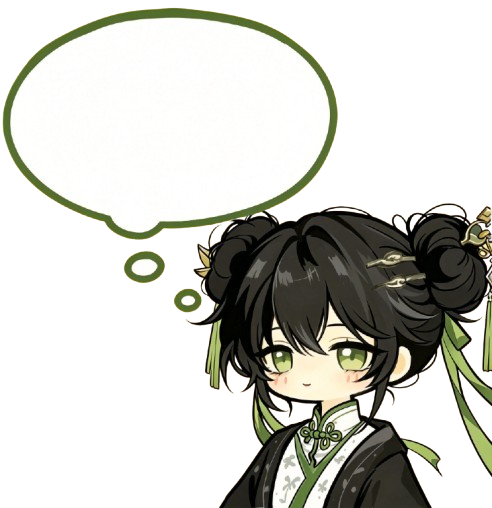
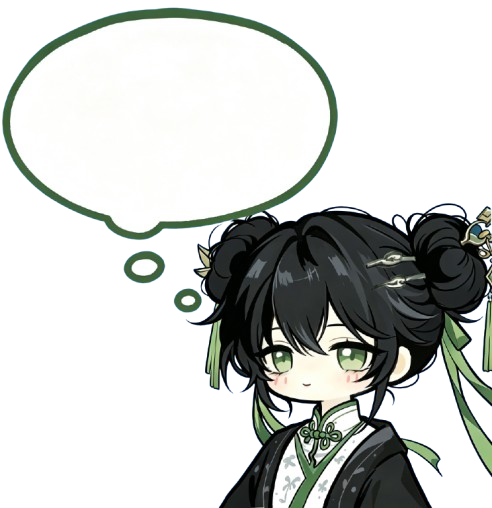
蔡可

diff --git a/public/world/游戏系统/difu/模拟器/蔡可.html b/public/world/游戏系统/difu/模拟器/蔡可.html
@@ -96,7 +96,7 @@ body{font-family:var(--font-serif);background:var(--bg-body);color:var(--text-pr
 #desk-pet{position:fixed;bottom:-2px;right:0;z-index:9999;width:260px;cursor:grab;user-select:none;-webkit-user-select:none;-webkit-touch-callout:none;transform-origin:bottom center;-webkit-tap-highlight-color:transparent;touch-action:none;transition:filter 0.3s ease;will-change:transform;--drag-x:0px;--drag-y:0px;transform:translate3d(var(--drag-x),var(--drag-y),0);}
 [data-theme="dark"] #desk-pet{filter:brightness(0.88);}
 #desk-pet .char-img{width:100%;display:block;pointer-events:none;transition:filter 0.25s ease;}
-#desk-pet .bubble-text-wrap{position:absolute;left:8%;top:15%;width:64%;height:26%;display:flex;align-items:center;justify-content:center;text-align:center;z-index:2;pointer-events:none;}
+#desk-pet .bubble-text-wrap{position:absolute;left:4%;top:11%;width:64%;height:26%;display:flex;align-items:center;justify-content:center;text-align:center;z-index:2;pointer-events:none;}
 #desk-pet .bubble-text{font-family:var(--font-serif);font-size:0.92rem;font-weight:600;color:#1a1a1a;line-height:1.4;letter-spacing:0.5px;word-break:break-word;}
 #desk-pet.dragging{cursor:grabbing;transform:translate3d(var(--drag-x),var(--drag-y),0) scale(1.04);}
 #desk-pet.dragging .char-img{filter:drop-shadow(0 14px 16px rgba(0,0,0,0.30));}
@@ -229,7 +229,7 @@ if (themeBtn) {
 
 // 桌边小像
 (function(){
-  var lines = ["药好像煎糊了。","……","今天来医馆的人不多。","你说我的手怎么样了？不用担心。","铁匠铺给我装了法器义肢，用起来其实很灵活。","还是能拉开弓的。","……想看我射箭的样子？","当然可以。","那等你课程结束，我们演武场见吧？"];
+  var lines = ["药好像煎糊了。","……","你说我的手怎么样了？不用担心。","铁匠铺给我装了法器义肢，用起来其实很灵活。","还是能拉开弓的。","……想看我射箭的样子？","当然可以。","那等你课程结束，我们演武场见吧？"];
     var idx = 0;
 	  var pet = document.getElementById('desk-pet');
 	  var bubbleText = document.getElementById('bubbleText');
